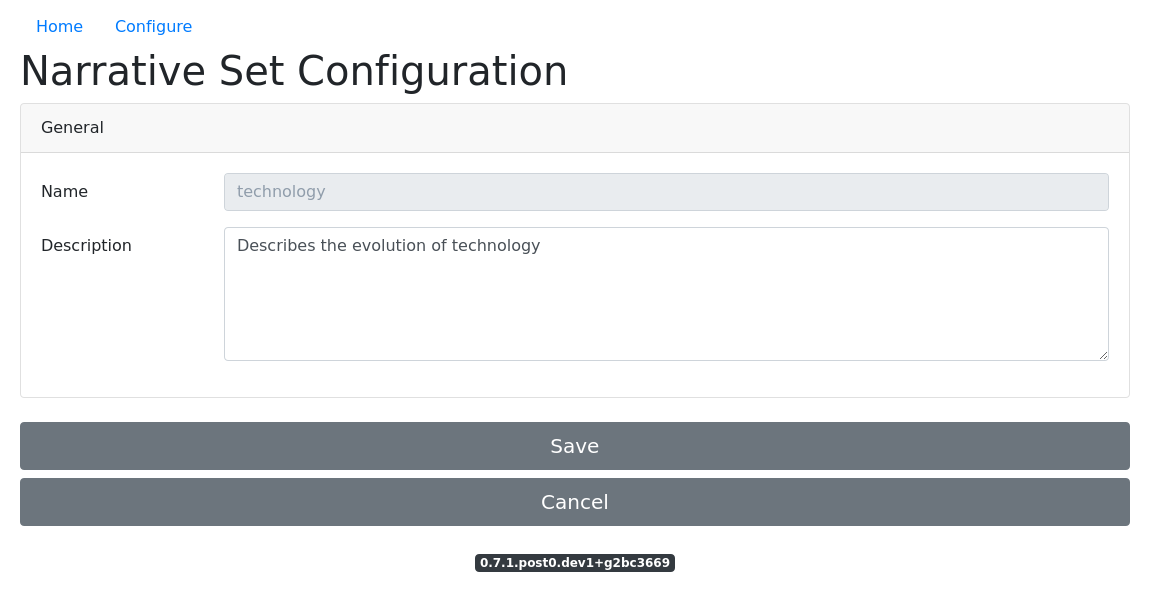
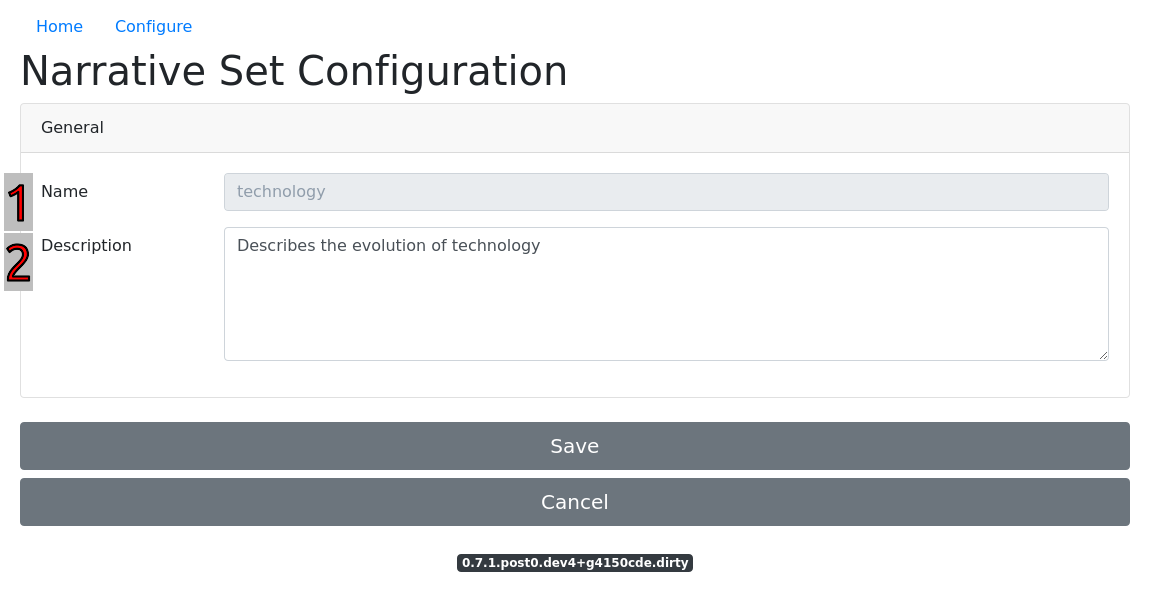
Add first version of gui docs

Changed region(s): [[0.3957, 0.9122, 0.6087, 0.973], [0.0, 0.2736, 0.0304, 0.5169]]

diff --git a/docs/getting_started.rst b/docs/getting_started.rst
@@ -34,12 +34,12 @@ so you can run smif commands explicitly::
 User Interface
 ---------------------
 The smif app is a web-based user interface, which helps to manage project configurations.
-The app can be started within the project configuration directory or anywhere else by specifying the project directory::
+The app can be started within a project configuration directory or anywhere else by specifying the path to a project directory::
   
   $ smif app
   $ smif app -d ~/projects/smif_sample_project/
 
-This will automatically open the smif app welcome screen in the default configured browser:
+This will automatically open the smif app welcome screen in the default configured browser.
 
 .. figure:: gui/welcome.png
     :width: 200px
@@ -47,10 +47,17 @@ This will automatically open the smif app welcome screen in the default configur
     :alt: alternate text
     :figclass: align-center
 
-    The Smif welcome screen
+    The Smif app welcome screen
+
+.. topic:: Hints
+    
+    Set up a system-of-systems project
+
+    :app: Click the "Set up a system-of-systems project" button [A] to open the project configuration.
 
 The Project Configuration
-~~~~~~~~~~~~~~~~
+~~~~~~~~~~~~~~~~~~~~~~~~~
+This overview displays all of the configurations that are currently present in the system-of-systems configuration directory. New configurations can be created and existing ones can be edited or removed. See also :ref:`Project Configuration`.
 
 .. figure:: gui/configure.png
     :width: 200px
@@ -58,10 +65,37 @@ The Project Configuration
     :alt: alternate text
     :figclass: align-center
 
-    The Project configurator
+    The Project configuration
+
+.. csv-table::
+   :header:  "#", "Attribute", "Notes"
+   :widths: 5, 15, 40
+
+   1, Name, The name of the project configuration that is currently open
+   2, Model Runs, The Model Run configurations that currently exist in the project
+   3, System-of-Systems Model, The System-of-System configurations that currently exist in the project
+   4, Simulation Models, The Simulation Model configurations that currently exist in the project configuration
+   5, Scenario Sets, The Scenario Set configurations that currently exist in the project configuration
+   6, Narrative Sets, The Narrative Set configurations that currently exist in the project configuration
+   7, Narratives, The Narrative configurations that currently exist in the project configuration
+
+.. topic:: Hints
+    
+    Create a new configuration
+
+    :app: Click on the "Create a new ..." button [A] to create a new configuration
+
+    Edit an existing configuration
+
+    :app: Click on the row [B] to edit an existing configuration
+
+    Delete a configuration
+
+    :app: Click on the bin icon [C] to delete a configuration
 
 Simulation Model Configuration
-~~~~~~~~~~~~~~~~
+~~~~~~~~~~~~~~~~~~~~~~~~~~~~~~
+The Simulation Model configuration tool helps to view, edit or create a simulation model configuration. This interface builds upon the specifications explained in :ref:`A Simulation Model File`.
 
 .. figure:: gui/configure-sector-models.png
     :width: 200px
@@ -69,38 +103,37 @@ Simulation Model Configuration
     :alt: alternate text
     :figclass: align-center
 
-    The Simulation Model configurator
+    The Simulation Model configuration
 
-.. csv-table:: Configuration Attributes
-   :header: "Attribute", "Notes"
-   :widths: 15, 50
+.. csv-table::
+   :header:  "#", "Attribute", "Notes"
+   :widths: 5, 15, 40
 
-   *General*,
-   Name,
-   Description, 
-   *Environment*,
-   Class Name,
-   Path,
-   *Inputs*,
-   Name,
-   Spatial Resultion,
-   Temporal Resolution,
-   Units,
-   *Outputs*,
-   Name,
-   Spatial Resultion,
-   Temporal Resolution,
-   Units,
-   *Parameters*,
-   Name,
-   Description,
-   Default Value,
-   Units,
-   Absolute Range,
-   Suggested Range
+   1, Name, A unique name that identifies the simulation model configuration. Note: this field is non-editable. See also :ref:`A Simulation Model File`
+   2, Description, A description that shortly describes the simulation model for future reference. See also :ref:`A Simulation Model File`
+   3, Class Name, Name of the Class that is used in the smif wrapper. See also :ref:`Wrapping a Sector Model: Overview`
+   4, Path, The location of the python wrapper file. See also :ref:`Wrapping a Sector Model: Overview`
+   5, Inputs, The simulation model inputs with their name, units and temporal-spatial resolution. See also :ref:`Inputs`
+   6, Outputs, The simulation model outputs with their name, units and temporal-spatial resolution. See also :ref:`Outputs`
+   7, Parameters, The simulation model parameters. See also :ref:`Parameters`
 
-System-of-System model configuration
-~~~~~~~~~~~~~~~~
+.. topic:: Hints
+
+    Add a simulation model input
+
+    :app: Click on the "Add Input" button [A] to open a form to add a new input
+
+    Add a simulation model output
+
+    :app: Click on the "Add Output" button [B] to open a form to add a new output
+
+    Add a simulation model parameter
+
+    :app: Click on the "Add Parameter" button [C] to open a form to add a new parameter
+
+System-of-Systems model configuration
+~~~~~~~~~~~~~~~~~~~~~~~~~~~~~~~~~~~~
+The System-of-Systems model configuration tool helps to view, edit or create a system-of-systems model configuration. This interface builds upon the specifications explained in :ref:`A System-of-Systems Model File`.
 
 .. figure:: gui/configure-sos-models.png
     :width: 200px
@@ -108,10 +141,40 @@ System-of-System model configuration
     :alt: alternate text
     :figclass: align-center
 
-    The System-of-System Model configurator
+    The System-of-System Model configuration
+
+.. csv-table::
+   :header:  "#", "Attribute", "Notes"
+   :widths: 5, 15, 40
+
+   1, Name, A unique name that identifies the System-of-Systems model configuration. Note: this field is non-editable. See also :ref:`A System-of-Systems Model File`
+   2, Description, A description that shortly describes the System-of-Systems model for future reference. See also :ref:`A System-of-Systems Model File`
+   3, Sector Models, The selection of Simulation Models that are used in this System-of-Systems Model. See also :ref:`A System-of-Systems Model File`
+   4, Scenario Sets, The selection of Scenario Sets that are used in this System-of-Systems Model. See also :ref:`A System-of-Systems Model File`
+   5, Narrative Sets, The selection of Narrative Sets that are used in this System-of-Systems Model. See also :ref:`A System-of-Systems Model File`
+   6, Dependencies, The list of Dependencies that are defined between sources and links. See also :ref:`Dependencies`
+   7, Maximum Iteration,
+   8, Absolute Convergence Tolerance,
+   9, Relative Convergence Tolerance,
+
+.. topic:: Hints
+
+    Add a System-of-Systems Model dependency
+
+    :app: Click on the "Add Dependency" button [A] to open a form to add a new dependency
+
+    Save the System-of-Systems Model configuration
+
+    :app: Click on the "Save" button [B] to save the configuration and return to the Project Overview
+
+    Return to the Project Overview
+
+    :app: Click on the "Cancel" button [C] to return to the Project Overview without saving any changes
 
 Model Run Configuration
-~~~~~~~~~~~~~~~~
+~~~~~~~~~~~~~~~~~~~~~~~
+The Model Run configuration tool helps to view, edit or create a Model Run configuration. 
+This interface builds upon the specifications explained in :ref:`A Model Run File`.
 
 .. figure:: gui/configure-sos-model-run.png
     :width: 200px
@@ -119,8 +182,31 @@ Model Run Configuration
     :alt: alternate text
     :figclass: align-center
 
-    The Model Run configurator
+    The Model Run configuration
 
+.. csv-table::
+   :header:  "#", "Attribute", "Notes"
+   :widths: 5, 15, 40
+
+   1, Name, A unique name that identifies the Model Run configuration. Note: this field is non-editable. See also :ref:`A Model Run File`
+   2, Description, A description that shortly describes the Model Run for future reference. See also :ref:`A Model Run File`
+   3, Created, A timestamp that identifies at which time this Model Run was created. Note: this field is non-editable. See also :ref:`A Model Run File`
+   4, System-of-System model, The System-of-Systems Model that this Model Run configuration is using. See also :ref:`A Model Run File`
+   5, Scenarios, The selected Scenario for this Model Run within each of the available Scenario Sets. Note: Only the Scenario Sets that were configured in the selected System-of-System Model will be available here. See also :ref:`Scenarios`
+   6, Narrative, The selected Narratives for this Model Run within each of the available Narrative Sets. Note: Only the Narrative Sets that were configured in the selected System-of-System Model will be available here. See also :ref:`Narratives`
+   7, Resolution, The number of years between each of the Timesteps. See also :ref:`Timesteps`
+   8, Base year, The Timestep where this Model Run must start the simulation. See also :ref:`Timesteps`
+   9, End year, The last Timestep that this Model Run must simulate. See also :ref:`Timesteps`
+
+.. topic:: Hints
+
+    Save the Model Run configuration
+
+    :app: Click on the "Save" button [B] to save the configuration and return to the Project Overview
+
+    Return to the Project Overview
+
+    :app: Click on the "Cancel" button [C] to return to the Project Overview without saving any changes
 
 Project Configuration
 ---------------------
@@ -317,7 +403,7 @@ Parameters
    default_value,	float, "The default value for the parameter"
    units,	string,	""
 
-A System-of-System Model File
+A System-of-Systems Model File
 ~~~~~~~~~~~~~~~~~~~~~~~~~~~~~
 
 A system-of-systems model collects together scenario sets and simulation models.
